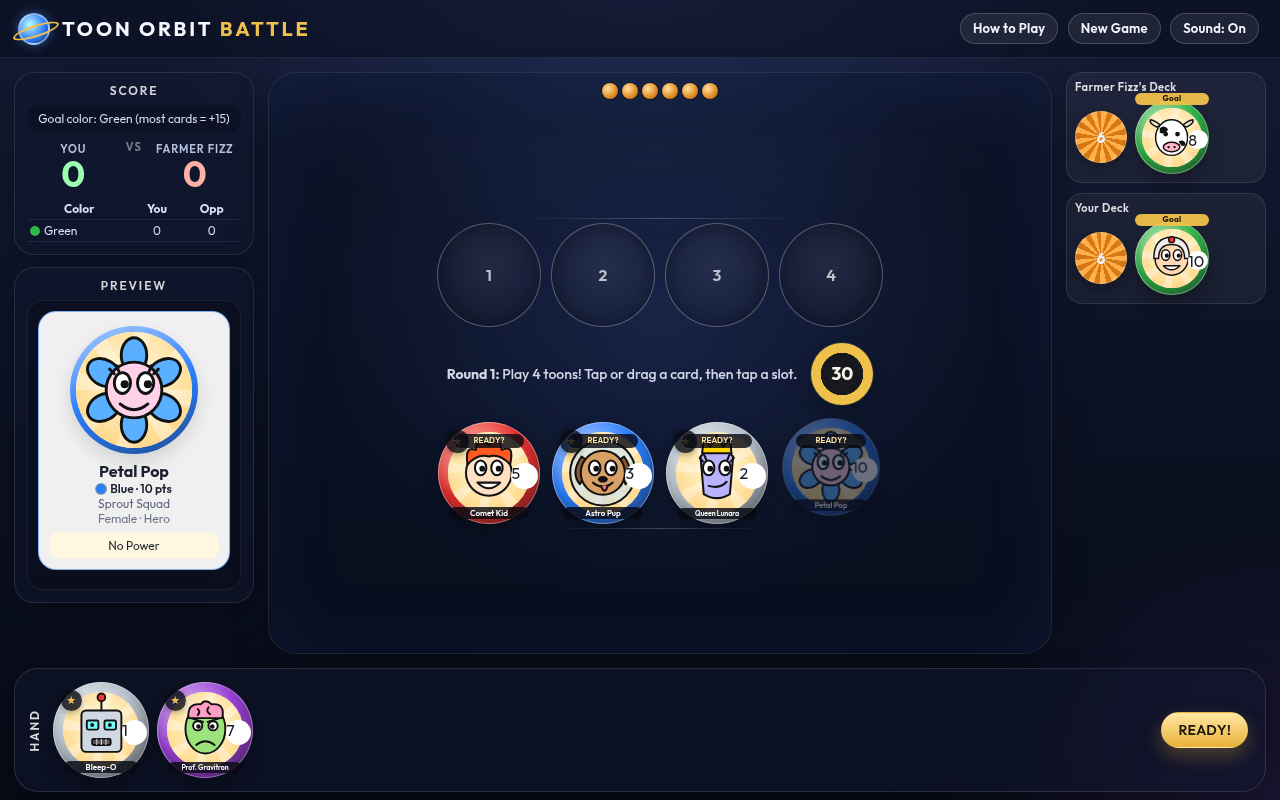
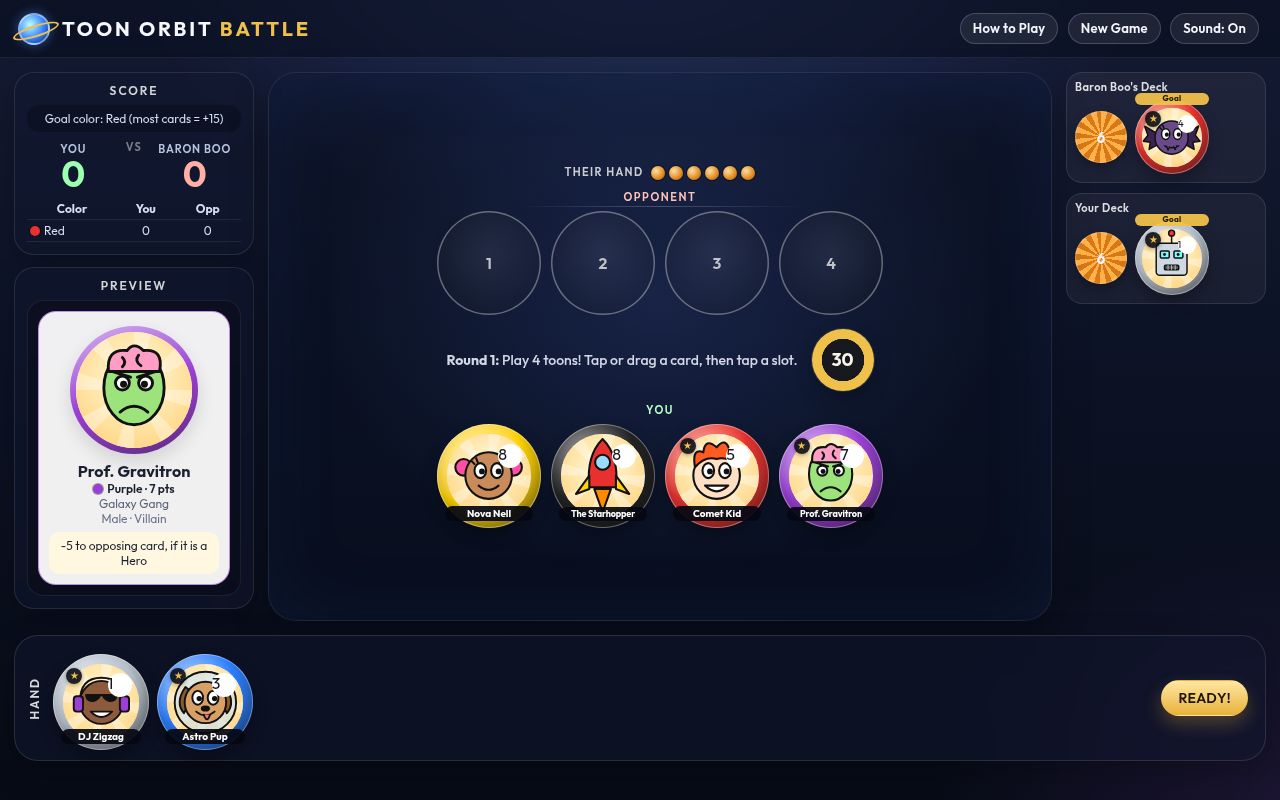
Fix clipped badges, preview, and the phone layout
Keep point numbers fully inside each disc, drop the redundant Ready chip, and fit the phone board, hand, and button in one screen.

diff --git a/style.css b/style.css
@@ -66,21 +66,26 @@ body::before { content: ""; position: fixed; inset: 0; pointer-events: none; opa
 .tv-power { font-size: 12px; margin-top: 6px; background: #fff7df; border-radius: 10px; padding: 6px; }
 .tv-live { font-size: 12px; margin-top: 6px; background: #eef4ff; border-radius: 10px; padding: 6px; }
 .arena { background: radial-gradient(ellipse at 50% 42%, rgba(90, 130, 255, .16), transparent 62%), rgba(8, 14, 32, .4);
-  border: 1px solid rgba(255,255,255,.1); border-radius: 28px; box-shadow: inset 0 0 80px rgba(80, 130, 255, .08), 0 16px 40px rgba(0,0,0,.2); padding: 10px 12px; position: relative; }
-.ohandrow { display: flex; justify-content: center; height: 22px; }
-#o-hand { display: flex; gap: 4px; } .minback { width: 16px; height: 16px; border-radius: 50%; background: radial-gradient(circle at 35% 35%, #ffe0a0, #e08a22 60%, #a85a10); box-shadow: 0 0 0 1px rgba(0,0,0,.35); }
-.side { display: flex; flex-direction: column; align-items: center; gap: 8px; padding: 6px; }
+  border: 1px solid rgba(255,255,255,.1); border-radius: 28px; box-shadow: inset 0 0 80px rgba(80, 130, 255, .08), 0 16px 40px rgba(0,0,0,.2); padding: 12px; position: relative;
+  display: flex; flex-direction: column; justify-content: center; }
+.ohandrow { display: flex; justify-content: center; align-items: center; gap: 8px; min-height: 22px; margin-bottom: 4px; }
+.ohandlabel { font: 600 11px/1 "Outfit", system-ui, sans-serif; letter-spacing: .12em; text-transform: uppercase; color: rgba(255,255,255,.78); }
+#o-hand { display: flex; gap: 4px; } .minback { width: 14px; height: 14px; border-radius: 50%; background: radial-gradient(circle at 35% 35%, #ffe0a0, #e08a22 60%, #a85a10); box-shadow: 0 0 0 1px rgba(0,0,0,.35); }
+.side { display: flex; flex-direction: column; align-items: center; gap: 8px; padding: 4px; width: 100%; }
+.sidelabel { font: 600 11px/1 "Outfit", system-ui, sans-serif; letter-spacing: .14em; text-transform: uppercase; color: rgba(255,255,255,.78); }
+.side.opp .sidelabel { color: #ffc3b8; } .side.me .sidelabel { color: #b6ffc4; }
 .side.opp, .side.me { border-radius: 22px; }
 .side .row + .row { position: relative; }
 .side .row + .row::before { content: ""; position: absolute; top: -5px; left: 18%; right: 18%; height: 1px; background: linear-gradient(90deg, transparent, rgba(255,255,255,.22), transparent); }
 .row { display: flex; gap: 10px; justify-content: center; align-items: center; }
-.slot { width: 104px; height: 104px; border-radius: 50%; border: 1.5px solid rgba(255,255,255,.28); display: flex; align-items: center; justify-content: center; position: relative; cursor: pointer;
-  background: radial-gradient(circle at 50% 40%, rgba(255,255,255,.07), rgba(0,0,0,.18)); box-shadow: inset 0 0 12px rgba(0,0,0,.25); }
-.slot.locked { visibility: hidden; }
-.slot.open { border-color: rgba(240, 193, 74, .95); background: rgba(240, 193, 74, .08); animation: glow 1.4s ease-in-out infinite alternate; }
+.slot { width: 104px; height: 104px; border-radius: 50%; border: none; display: flex; align-items: center; justify-content: center; position: relative; cursor: pointer;
+  background: radial-gradient(circle at 50% 40%, rgba(255,255,255,.07), rgba(0,0,0,.18)); box-shadow: inset 0 0 0 1.5px rgba(255,255,255,.35); }
+.slot.locked { display: none; }
+.row:not(:has(.slot:not(.locked))) { display: none; }
+.slot.open { background: rgba(240, 193, 74, .08); box-shadow: inset 0 0 0 1.5px rgba(240,193,74,.95), 0 0 0 4px rgba(240,193,74,.16); animation: glow 1.4s ease-in-out infinite alternate; }
 .slot.hover { background: rgba(240, 193, 74, .2); }
 .slot.swaptarget { outline: 2px solid #ff7d72; outline-offset: 3px; }
-.slot:has(.card) { border-color: transparent; background: transparent; box-shadow: none; animation: none; }
+.slot:has(.card) { background: transparent; box-shadow: none; animation: none; }
 .slotnum { font: 600 16px/1 "Outfit", system-ui, sans-serif; color: rgba(255,255,255,.72); }
 .midline { display: flex; align-items: center; justify-content: center; gap: 14px; min-height: 52px; margin: 6px 0; padding: 4px 8px; }
 #phaseMsg { font-size: 14px; font-weight: 500; letter-spacing: 0; text-align: center; max-width: 560px; color: rgba(238, 242, 255, .88); }
@@ -95,17 +100,17 @@ body::before { content: ""; position: fixed; inset: 0; pointer-events: none; opa
   background: radial-gradient(circle at 32% 28%, color-mix(in srgb, var(--cc) 42%, #fff), var(--cc) 48%, color-mix(in srgb, var(--cc) 42%, #111));
   box-shadow: inset 0 0 0 1px rgba(255,255,255,.35), inset 0 -10px 16px rgba(0,0,0,.18), 0 8px 16px rgba(0,0,0,.28);
   transition: box-shadow .18s ease, transform .18s ease; }
-.cname { position: absolute; z-index: 2; left: 11%; right: 11%; bottom: 5%; margin: 0; font: 600 8px/1.05 "Outfit", system-ui, sans-serif; text-align: center; color: #fff;
-  background: rgba(8, 10, 20, .82); border: 0; border-radius: 8px; padding: 2px 3px; white-space: normal;
+.cname { position: absolute; z-index: 2; left: 8%; right: 8%; bottom: 6%; margin: 0; font: 700 10px/1.15 "Outfit", system-ui, sans-serif; text-align: center; color: #fff;
+  background: rgba(5, 8, 18, .92); border: 0; border-radius: 8px; padding: 2px 5px; white-space: normal;
   display: -webkit-box; -webkit-box-orient: vertical; -webkit-line-clamp: 2; overflow: hidden; }
-.cname.long { font-size: 7px; letter-spacing: -.01em; }
+.cname.long { font-size: 9px; letter-spacing: -.01em; }
 .cart { position: absolute; inset: 10%; height: auto; border-radius: 50%; overflow: hidden; background: #fff; box-shadow: inset 0 0 12px rgba(0,0,0,.22); }
 .cart svg { width: 100%; height: 100%; display: block; }
-.cpts { position: absolute; z-index: 3; right: 2%; bottom: 34%; width: 26%; height: 26%; border-radius: 50%; background: #fff; border: 0; color: #1a1d27; }
-  box-shadow: 0 2px 6px rgba(0,0,0,.35); font: 700 12px/1 "Outfit", system-ui, sans-serif; display: flex; align-items: center; justify-content: center; }
+.cpts { position: absolute; z-index: 4; top: 20%; right: 18%; bottom: auto; width: 24px; height: 24px; border-radius: 50%; background: #fff; border: 0; color: #141821; }
+  box-shadow: 0 1px 4px rgba(0,0,0,.35), 0 0 0 2px var(--cc, #6aa0ff); font: 800 12px/24px "Outfit", system-ui, sans-serif; letter-spacing: -.04em; display: flex; align-items: center; justify-content: center; padding: 0; }
 .cpts.up { background: #d9ffc8; } .cpts.down { background: #ffd0c8; } .cpts.ko { background: #2a2a2a; color: #ff6b6b; }
-.pstar { position: absolute; z-index: 3; left: 8%; top: 8%; width: 22%; height: 22%; border-radius: 50%; display: flex; align-items: center; justify-content: center;
-  background: rgba(10, 12, 20, .82); color: #f0c14a; font-size: 11px; line-height: 1; box-shadow: 0 2px 6px rgba(0,0,0,.3); }
+.pstar { position: absolute; z-index: 4; left: 14%; top: 14%; width: 16px; height: 16px; border-radius: 50%; display: flex; align-items: center; justify-content: center;
+  background: rgba(10, 12, 20, .9); color: #f0c14a; font-size: 10px; line-height: 1; box-shadow: 0 1px 4px rgba(0,0,0,.35); }
 .recolor { position: absolute; z-index: 3; left: 8%; top: 34%; width: 16%; height: 16%; border-radius: 50%; box-shadow: 0 0 0 1px rgba(0,0,0,.4); }
 .kostamp { position: absolute; z-index: 4; left: 8%; right: 8%; top: 40%; transform: rotate(-10deg); background: rgba(214, 54, 54, .94); color: #fff; font: 700 10px/1.2 "Outfit", system-ui, sans-serif;
   letter-spacing: .04em; text-align: center; border-radius: 999px; padding: 2px 0; animation: stamp .32s ease-out; }
@@ -114,9 +119,10 @@ body::before { content: ""; position: fixed; inset: 0; pointer-events: none; opa
 .backlogo { background: rgba(18, 28, 78, .9); border-radius: 50%; width: 54%; height: 54%; display: flex; flex-direction: column; align-items: center; justify-content: center; font: 700 9px/1.1 "Outfit", system-ui, sans-serif; letter-spacing: .06em; color: #fff; }
 .backlogo b { color: #f0c14a; }
 .pending { position: absolute; inset: 0; }
-.slot { perspective: 700px; }
-.slot > .card, .pending .card { position: absolute; top: 0; left: 0; width: 100%; height: 100%; aspect-ratio: auto; }
-.pend-tag { position: absolute; z-index: 4; left: 16%; right: 16%; top: 12%; text-align: center; font: 600 8px/1.2 "Outfit", system-ui, sans-serif; background: rgba(8,10,20,.82); color: #ffe7a8; border-radius: 999px; padding: 2px 2px; }
+.slot { perspective: 700px; overflow: visible; }
+.pending { position: absolute; inset: 0; width: auto; height: auto; }
+.slot .card, .pending .card { position: absolute; inset: 0; width: auto; height: auto; aspect-ratio: auto; max-width: none; }
+.pend-tag { position: absolute; z-index: 5; left: 12%; right: 12%; bottom: 28%; top: auto; text-align: center; font: 700 9px/1.2 "Outfit", system-ui, sans-serif; background: rgba(5,8,18,.92); color: #ffe7a8; border-radius: 999px; padding: 2px 4px; }
 .dropin { animation: dropin .34s cubic-bezier(.2, .9, .3, 1); }
 .flipin { animation: flip .46s ease-out; transform-origin: center; }
 @keyframes dropin { from { transform: translateY(-10px) scale(.92); opacity: 0; } to { transform: none; opacity: 1; } }
@@ -136,13 +142,15 @@ body::before { content: ""; position: fixed; inset: 0; pointer-events: none; opa
 .stack { width: 52px; height: 52px; border-radius: 50%; border: 0; background: repeating-conic-gradient(#ffb24a 0 14deg, #d87816 14deg 28deg);
   box-shadow: inset 0 0 0 1px rgba(255,255,255,.25), 0 6px 12px rgba(0,0,0,.25); display: flex; align-items: center; justify-content: center; font: 700 15px/1 "Outfit", system-ui, sans-serif; }
 .stack.empty { background: rgba(255,255,255,.08); box-shadow: none; }
-.goalcard { position: relative; width: 74px; flex: none; } .goalcard .card { width: 74px; height: 74px; } .goalcard .cname { display: none; } .goalcard.drawn { opacity: .5; }
+.goalcard { position: relative; width: 74px; flex: none; } .goalcard .card { width: 74px; height: 74px; } .goalcard .cname { display: none; }
+.goalcard .cpts, .fan .cpts { width: 18px; height: 18px; font-size: 10px; line-height: 18px; }
+.goalcard.drawn { opacity: .5; }
 .goaltag { position: absolute; top: -7px; left: 0; right: 0; background: rgba(240, 193, 74, .95); color: #1c1404; font: 700 8px/1.2 "Outfit", system-ui, sans-serif; letter-spacing: .04em; text-align: center; border-radius: 999px; z-index: 4; padding: 1px 0; }
 .handbar { display: flex; align-items: center; gap: 12px; margin: 0 14px 14px; padding: 10px 14px; min-height: 124px;
   background: rgba(16, 22, 46, .55); backdrop-filter: blur(18px); border: 1px solid rgba(255,255,255,.12); border-radius: 24px; box-shadow: 0 12px 32px rgba(0,0,0,.28); }
 .handlabel { writing-mode: vertical-rl; transform: rotate(180deg); font: 600 12px/1 "Outfit", system-ui, sans-serif; letter-spacing: .16em; text-transform: uppercase; color: rgba(255,255,255,.86); }
-#hand { display: flex; gap: 8px; flex: 1; min-height: 100px; align-items: center; }
-.handcard { position: relative; width: 96px; height: 96px; flex: none; cursor: pointer; transition: transform .18s ease; }
+#hand { display: flex; gap: 8px; flex: 1; min-height: 100px; align-items: center; padding-top: 8px; }
+.handcard { position: relative; width: 96px; height: 96px; flex: none; cursor: pointer; transition: transform .16s ease; }
 .handcard .card { width: 100%; height: 100%; aspect-ratio: auto; }
 .handcard:hover { transform: translateY(-6px); }
 .handcard.sel { transform: translateY(-8px); }
@@ -192,40 +200,45 @@ body::before { content: ""; position: fixed; inset: 0; pointer-events: none; opa
   html, body { height: auto; min-height: 100%; overflow-x: hidden; }
   body { touch-action: manipulation; padding: env(safe-area-inset-top) env(safe-area-inset-right) env(safe-area-inset-bottom) env(safe-area-inset-left); }
   #app { min-width: 0; max-width: 100%; }
-  .topbar { position: sticky; top: 0; z-index: 20; height: auto; min-height: 44px; flex-wrap: wrap; gap: 4px; padding: 8px 10px; }
-  .logo { font-size: 15px; letter-spacing: .08em; padding-left: 38px; }
-  .nav { display: flex; flex-wrap: wrap; justify-content: flex-end; }
-  .cname { font-size: 8px; }
-  .cname.long { font-size: 7px; }
-  .cpts { font-size: 11px; }
+  .topbar { position: sticky; top: 0; z-index: 20; height: auto; min-height: 44px; flex-wrap: nowrap; gap: 4px; padding: 4px 6px; }
+  .logo { font-size: 12px; letter-spacing: .02em; padding-left: 34px; flex: none; }
+  .nav { display: flex; flex-wrap: nowrap; justify-content: flex-end; gap: 0; }
+  .btn.small { padding: 6px 7px; font-size: 11px; margin: 0 1px; }
+  .cname { font-size: 9px; }
+  .cname.long { font-size: 8px; }
+  .cpts { width: 22px; height: 22px; font-size: 11px; line-height: 22px; }
   .btn, .deckpick, .bcard, .handcard, .slot, .goalcard { touch-action: manipulation; }
   .btn { min-height: 44px; min-width: 44px; }
   .btn.small { min-height: 44px; }
-  .layout { display: flex; flex-direction: column; gap: 8px; padding: 8px; }
+  .layout { display: flex; flex-direction: column; gap: 4px; padding: 4px; }
+  .box { padding: 6px 8px; margin-bottom: 0; }
+  .sb-num { font-size: 24px; }
+  .sb-scores { margin: 2px 0; }
+  .sb-title, .tv-title { margin-bottom: 4px; }
+  .ohandrow { margin-bottom: 0; }
+  .sidelabel { margin-bottom: 0; }
   .left { order: 1; } .right { order: 2; } .arena { order: 3; width: 100%; }
   .tv { display: none; }
-  .box { margin-bottom: 0; }
-  .sb-num { font-size: 28px; } .sb-side { min-width: 0; }
+  .sb-side { min-width: 0; }
   #decks { display: flex; gap: 8px; }
   .deckbox { flex: 1; min-width: 0; margin: 0; }
   .deckstack { align-items: center; }
   .dlabel { white-space: nowrap; overflow: hidden; text-overflow: ellipsis; }
   .stack { width: 44px; height: 44px; font-size: 14px; }
   .goalcard, .goalcard .card { width: 52px; height: 52px; }
-  .arena { padding: 8px 6px; }
+  .arena { padding: 6px; justify-content: flex-start; }
   .side { container-type: inline-size; --slot: min(92px, calc((100cqi - 12px) / 4)); width: 100%; gap: 6px; padding: 4px; }
   .row { width: 100%; gap: 4px; flex-wrap: nowrap; }
   .slot { flex: none; width: var(--slot); height: auto; aspect-ratio: 1; max-width: none; min-width: 44px; min-height: 44px; }
   .row.outer { width: calc(var(--slot) * 3 + 8px); max-width: 100%; margin-inline: auto; }
-  .midline { flex-wrap: wrap; gap: 6px; min-height: 44px; }
+  .midline { flex-wrap: wrap; gap: 6px; min-height: 40px; margin: 2px 0; }
   #phaseMsg { max-width: 100%; font-size: 13px; }
   #timer { width: 48px; height: 48px; font-size: 15px; }
-  .handbar { position: sticky; bottom: 0; z-index: 7; flex-direction: column; align-items: stretch; gap: 6px; margin: 0 8px 8px; padding: 8px; min-height: 0; }
+  .handbar { position: relative; bottom: auto; z-index: 7; flex-direction: column; align-items: stretch; gap: 2px; margin: 0 4px calc(4px + env(safe-area-inset-bottom)); padding: 4px 8px 6px; min-height: 0; }
   .handlabel { writing-mode: horizontal-tb; transform: none; text-align: center; letter-spacing: .14em; }
-  #hand { width: 100%; min-height: 0; gap: 4px; justify-content: center; }
+  #hand { width: 100%; min-height: 0; gap: 4px; justify-content: center; padding-top: 4px; }
   .handcard { flex: 1 1 0; width: calc((100% - 20px) / 6); max-width: 92px; min-width: 44px; height: auto; aspect-ratio: 1; }
-  .handcard:hover { transform: none; }
-  .handcard.sel { transform: none; }
+  .handcard:hover, .handcard.sel, .handcard:active { transform: translateY(-4px); }
   #actions { max-width: none; width: 100%; justify-content: center; }
   #actions .btn { flex: 1 1 120px; }
   .panel { width: calc(100vw - 16px); max-width: calc(100vw - 16px); padding: 16px; }
@@ -240,14 +253,18 @@ body::before { content: ""; position: fixed; inset: 0; pointer-events: none; opa
   .fan .card:nth-child(3) { transform: rotate(12deg) translateX(14px); }
   .bgrid { grid-template-columns: repeat(auto-fill, minmax(72px, 1fr)); }
   .go-num { font-size: 32px; }
-  #preview { pointer-events: none; }
   #preview:not(.hidden) {
-    display: block; position: fixed; z-index: 15; left: 8px; right: 8px; top: 64px; max-height: 168px; overflow: auto; padding: 10px;
-    background: rgba(14, 18, 36, .86); backdrop-filter: blur(18px); border: 1px solid rgba(255,255,255,.14); border-radius: 18px;
-    box-shadow: 0 16px 40px rgba(0,0,0,.4);
+    display: block; position: fixed; inset: 0; z-index: 40; pointer-events: none;
+    max-height: none; padding: 0; overflow: visible; background: transparent; border: 0; box-shadow: none; border-radius: 0;
   }
-  .preview-close { pointer-events: auto; min-height: 44px; min-width: 44px; float: right; }
-  #preview .tv-card { display: grid; grid-template-columns: 72px 1fr; gap: 8px; text-align: left; align-items: start; }
+  .preview-backdrop { position: absolute; left: 0; right: 0; bottom: 0; top: 22%; background: rgba(4, 6, 16, .45); border: 0; margin: 0; padding: 0; min-height: 0; min-width: 0; border-radius: 0; pointer-events: none; }
+  .preview-sheet {
+    position: absolute; z-index: 1; left: 10px; right: 10px; bottom: calc(8px + env(safe-area-inset-bottom));
+    max-height: 168px; overflow: auto; padding: 12px; border-radius: 20px; pointer-events: auto;
+    background: rgba(16, 20, 40, .98); border: 1px solid rgba(255,255,255,.14); box-shadow: 0 16px 40px rgba(0,0,0,.45);
+  }
+  .preview-close { min-height: 44px; min-width: 44px; float: right; }
+  #preview .tv-card { display: grid; grid-template-columns: 72px 1fr; gap: 8px; text-align: left; align-items: start; background: #fff; }
   #preview .tv-art { grid-row: 1 / span 6; width: 72px; height: 72px; margin: 0; }
 }
 @media (max-width: 1099px) and (orientation: landscape) {
@@ -255,9 +272,9 @@ body::before { content: ""; position: fixed; inset: 0; pointer-events: none; opa
   .layout { gap: 4px; padding: 4px; }
   .sb-num { font-size: 22px; }
   .side { --slot: min(64px, calc((100cqi - 12px) / 4)); }
-  .handbar { margin: 0 4px 4px; }
+  .handbar { margin: 0 4px calc(4px + env(safe-area-inset-bottom)); }
   .handcard { max-width: 64px; }
-  #preview:not(.hidden) { top: 48px; max-height: 120px; }
+  .preview-sheet { max-height: 70vh; }
 }
 @media (max-width: 360px) {
   .slot, .handcard { min-width: 0; }

diff --git a/game.js b/game.js
@@ -102,7 +102,10 @@
     let inner = '';
     if (card) {
       if (G.shown[side][i]) inner = cardHTML(card, ev.cells[side][i]);
-      else if (side === 'p') inner = `<div class="pending">${cardHTML(card)}<div class="pend-tag">${i === 6 && G.phase !== 'PLAY_2' ? 'FACE DOWN' : 'READY?'}</div></div>`;
+      else if (side === 'p') {
+        const faceDown = i === 6 && !G.phase.startsWith('PLAY');
+        inner = `<div class="pending">${cardHTML(card)}${faceDown ? '<div class="pend-tag">Face down</div>' : ''}</div>`;
+      }
       else inner = backHTML();
     } else inner = `<div class="slotnum">${i + 1}</div>`;
     return `<div class="slot ${isActive && !card ? 'open' : ''} ${hidden ? 'locked' : ''} ${G.swapMode && side === 'p' && i === 6 ? 'swaptarget' : ''}" data-side="${side}" data-slot="${i}">${inner}</div>`;
@@ -194,8 +197,10 @@
   }
 
   /* ---------- flow ---------- */
+  function hidePreview() { const p = $('#preview'); if (p) p.classList.add('hidden'); }
   function startGame(pIds, oIds, oName) {
     $('#overlay').classList.add('hidden');
+    hidePreview();
     G = newState(pIds, oIds, oName);
     draw(G.pDeck, G.pHand); draw(G.oDeck, G.oHand);
     render(); setActions('');
@@ -330,6 +335,7 @@
   }
   function gameOver() {
     G.phase = 'OVER';
+    hidePreview();
     const ev = evalNow(true); render();
     const r = ev.result; G.result = r;
     results.push({winner: r.winner, reason: r.reason, score: ev.score, total: ev.total, counts: ev.counts, targets: ev.targets});
@@ -363,6 +369,7 @@
   }
   function showDeckSelect() {
     stopTimer();
+    hidePreview();
     const ov = $('#overlay'); ov.classList.remove('hidden');
     const cd = customDeck();
     ov.innerHTML = `<div class="panel select">
@@ -409,11 +416,14 @@
 
   /* ---------- events ---------- */
   document.addEventListener('click', e => {
+    const pop = $('#preview');
+    const outsideSheet = pop && !pop.classList.contains('hidden') && !e.target.closest('.preview-sheet');
+    if (outsideSheet && e.target.id !== 'previewBackdrop') pop.classList.add('hidden');
     const t = e.target.closest('button, .handcard, .slot, .deckpick, .goalcard');
     if (!t) return;
     if (t.id === 'btnReady') return finishPlay(false);
     if (t.id === 'btnDiscard') return finishDiscard();
-    if (t.id === 'btnPreviewClose') { $('#preview').classList.add('hidden'); return; }
+    if (t.id === 'btnPreviewClose' || t.id === 'previewBackdrop') { $('#preview').classList.add('hidden'); return; }
     if (t.id === 'btnSwapYes') { G.swapMode = true; setMsg('Tap a card in your hand to put in your last slot (−10).'); setActions('<button class="btn" id="btnSwapNo">CANCEL – NO SWAP</button>'); render(); return; }
     if (t.id === 'btnSwapNo') return afterSwap(null);
     if (t.classList.contains('colorbtn')) return finishSilver(t.dataset.color, G.pendingSilver);
@@ -469,6 +479,7 @@
   document.addEventListener('dragleave', e => { const s = e.target.closest('.slot'); if (s) s.classList.remove('hover'); });
   document.addEventListener('drop', e => { const s = e.target.closest('.slot.open'); if (!s) return; e.preventDefault(); placeCard(+e.dataTransfer.getData('text/plain'), +s.dataset.slot); });
   document.addEventListener('mouseover', e => {
+    if (narrow()) return;
     const c = e.target.closest('.card[data-id]'); if (!c) return;
     const slot = c.closest('.slot'); let info = null;
     if (slot && G && G.lastEv) { const side = slot.dataset.side, i = +slot.dataset.slot; if (G.shown[side][i]) info = G.lastEv.cells[side][i]; }

diff --git a/index.html b/index.html
@@ -32,13 +32,15 @@
       <div class="box tv"><div class="tv-title">Preview</div><div id="inspector"></div></div>
     </aside>
     <section class="arena">
-      <div class="ohandrow"><div id="o-hand"></div></div>
+      <div class="ohandrow"><span class="ohandlabel">Their hand</span><div id="o-hand"></div></div>
       <div class="side opp">
+        <div class="sidelabel">Opponent</div>
         <div class="row outer" id="o-outer"></div>
         <div class="row inner" id="o-inner"></div>
       </div>
       <div class="midline"><div id="phaseMsg">Welcome to Toon Orbit Battle!</div><div id="timer"></div></div>
       <div class="side me">
+        <div class="sidelabel">You</div>
         <div class="row inner" id="p-inner"></div>
         <div class="row outer" id="p-outer"></div>
       </div>
@@ -51,9 +53,12 @@
     <div id="actions"></div>
   </footer>
   <div id="overlay" class="hidden"></div>
-  <div id="preview" class="preview hidden" role="dialog" aria-label="Card preview">
-    <button type="button" class="btn preview-close" id="btnPreviewClose">Close</button>
-    <div id="previewBody"></div>
+  <div id="preview" class="preview hidden" role="dialog" aria-modal="true" aria-label="Card preview">
+    <button type="button" class="preview-backdrop" id="previewBackdrop" aria-label="Close preview"></button>
+    <div class="preview-sheet">
+      <button type="button" class="btn preview-close" id="btnPreviewClose">Close</button>
+      <div id="previewBody"></div>
+    </div>
   </div>
 </div>
 <script src="cards.js"></script>
